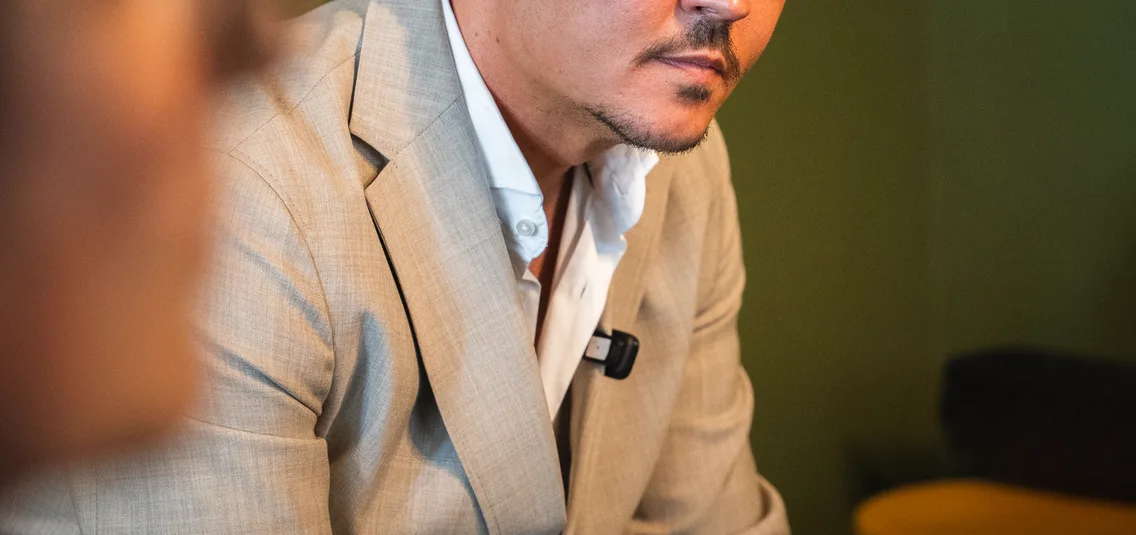
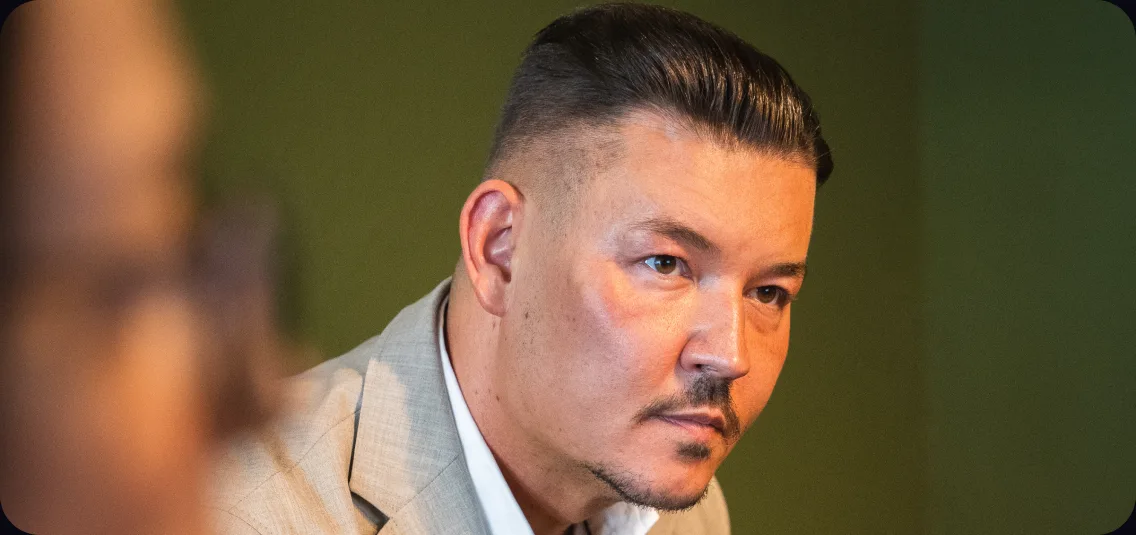
Landing pages: client change round + HubSpot lead sync
Feedback from the client on the eight live landing pages:

- "Der Beweis" now plays KIfrhPyYPNA ("Von 4 auf 18 Millionen €") instead of
  the Sales Mastery aftermovie. The Hoermann case study points at the same
  clip, which is that study's own story.
- The "6 Erfolgsgeschichten" video-carousel section is dropped from all eight
  pages. The four case studies carry the proof instead. The carousel is
  untouched on the main site (StoriesSection still uses VideoCarousel).
- The four case studies move up to sit directly after "Die Loesung", ahead of
  "So laeuft's ab" — proof follows the claim, before the how.
- The Hoermann video card is 16:9 rather than the design's 568x267 frame. A
  YouTube player letterboxes anything wider than 16:9, which put black bars
  down both sides and made the video look narrower than the chart card above
  it.
- Both Hoermann team photos are re-exported from their Figma nodes. The old
  files were cropped from the wrong region and cut the subject's head off.

The lead form now also writes to HubSpot, alongside the existing Web3Forms
notification. The CRM call goes through /api/lead so the private-app token
stays server-side, and it can never fail the submission — if HubSpot errors
the visitor still sees success, because the e-mail has already gone out.

The form collects no email address (the design ships name / phone / company
only), so contacts are matched on `phone` rather than the usual email dedup
[…]

diff --git a/src/lib/hubspot.ts b/src/lib/hubspot.ts
@@ -1,4 +1,4 @@
-import type { TicketSale } from "./smd2026";
+import { splitName, type TicketSale } from "./smd2026";
 
 /**
  * Pushes a ticket sale into HubSpot ("SMD2026"):
@@ -113,6 +113,96 @@ async function addToList(listId: string, contactId: string): Promise<void> {
   if (!res.ok) {
     throw new Error(`HubSpot list ${listId} add failed: ${await res.text()}`);
   }
+}
+
+/* ------------------------------------------------------------------ */
+/* Landing-page leads ("Kostenlose Potenzialanalyse")                   */
+/* ------------------------------------------------------------------ */
+
+export interface PotenzialanalyseLead {
+  name: string;
+  phone: string;
+  company: string;
+  /** Answer to "Bist du Inhaber / Entscheider?" */
+  decisionMaker: "Ja" | "Nein";
+  /** Which of the eight landing pages the form was submitted from. */
+  landingPage: string;
+}
+
+/**
+ * Upserts a landing-page lead as a HubSpot contact.
+ *
+ * The form deliberately collects no email address (the Figma design ships
+ * name / phone / company only), so the usual email dedup key isn't available —
+ * we match on `phone` instead. Two submissions from the same number update one
+ * contact; a changed number creates a second one.
+ *
+ * Everything written here is a property that already exists in the portal.
+ * The extra answers go into the standard `message` field because there is no
+ * dedicated property for them yet — see the note in the route handler.
+ */
+export async function submitLeadToHubSpot(
+  lead: PotenzialanalyseLead,
+): Promise<string> {
+  const { firstName, lastName } = splitName(lead.name);
+
+  const properties: Record<string, string> = {
+    firstname: firstName,
+    lastname: lastName,
+    phone: lead.phone,
+    company: lead.company,
+    lifecyclestage: "lead",
+    // "Noch nicht erreicht" — the lead is waiting for the callback.
+    hs_lead_status: "NEW",
+    message: [
+      "Kostenlose Potenzialanalyse angefragt",
+      `Landingpage: ${lead.landingPage}`,
+      `Inhaber / Entscheider: ${lead.decisionMaker}`,
+    ].join(" · "),
+  };
+
+  const existingId = await findContactIdByPhone(lead.phone);
+
+  if (existingId) {
+    const patchRes = await fetch(`${BASE}/crm/v3/objects/contacts/${existingId}`, {
+      method: "PATCH",
+      headers: authHeaders(),
+      body: JSON.stringify({ properties }),
+    });
+    if (!patchRes.ok) {
+      throw new Error(`HubSpot lead PATCH failed: ${await patchRes.text()}`);
+    }
+    return existingId;
+  }
+
+  const createRes = await fetch(`${BASE}/crm/v3/objects/contacts`, {
+    method: "POST",
+    headers: authHeaders(),
+    body: JSON.stringify({ properties }),
+  });
+  if (!createRes.ok) {
+    throw new Error(`HubSpot lead create failed: ${await createRes.text()}`);
+  }
+  const created = (await createRes.json()) as { id: string };
+  return created.id;
+}
+
+/** Finds a contact by phone number, or null. Used instead of email dedup. */
+async function findContactIdByPhone(phone: string): Promise<string | null> {
+  const res = await fetch(`${BASE}/crm/v3/objects/contacts/search`, {
+    method: "POST",
+    headers: authHeaders(),
+    body: JSON.stringify({
+      filterGroups: [
+        { filters: [{ propertyName: "phone", operator: "EQ", value: phone }] },
+      ],
+      properties: ["phone"],
+      limit: 1,
+    }),
+  });
+  if (!res.ok) return null; // search failing shouldn't block the lead
+  const found = (await res.json()) as { results?: { id: string }[] };
+  return found.results?.[0]?.id ?? null;
 }
 
 export async function trackSaleInHubSpot(sale: TicketSale): Promise<string> {

diff --git a/src/app/api/lead/route.ts b/src/app/api/lead/route.ts
@@ -1,0 +1,59 @@
+import { NextRequest, NextResponse } from "next/server";
+import { submitLeadToHubSpot, type PotenzialanalyseLead } from "@/lib/hubspot";
+
+// Talks to HubSpot with the private-app token → never prerender or cache.
+export const runtime = "nodejs";
+export const dynamic = "force-dynamic";
+
+/**
+ * Landing-page lead intake. The form also posts to Web3Forms for the e-mail
+ * notification; this route is the CRM half, kept server-side so the HubSpot
+ * token is never shipped to the browser.
+ *
+ * The lead is written to properties that already exist in the portal. Two
+ * answers have no dedicated property yet — the landing page it came from and
+ * "Inhaber / Entscheider" — so they go into the standard `message` field. If
+ * those should become filterable, create two custom properties in HubSpot and
+ * map them in `submitLeadToHubSpot`.
+ */
+export async function POST(req: NextRequest) {
+  if (!process.env.HUBSPOT_TOKEN) {
+    // The form still succeeds via Web3Forms — don't fail the submission.
+    console.error("[lead] HUBSPOT_TOKEN is not set; skipping CRM sync");
+    return NextResponse.json({ ok: false, reason: "not-configured" }, { status: 200 });
+  }
+
+  let body: Partial<PotenzialanalyseLead>;
+  try {
+    body = (await req.json()) as Partial<PotenzialanalyseLead>;
+  } catch {
+    return NextResponse.json({ error: "Invalid JSON" }, { status: 400 });
+  }
+
+  const name = body.name?.trim();
+  const phone = body.phone?.trim();
+  const company = body.company?.trim();
+
+  if (!name || !phone || !company) {
+    return NextResponse.json(
+      { error: "name, phone and company are required" },
+      { status: 400 },
+    );
+  }
+
+  try {
+    const contactId = await submitLeadToHubSpot({
+      name,
+      phone,
+      company,
+      decisionMaker: body.decisionMaker === "Nein" ? "Nein" : "Ja",
+      landingPage: body.landingPage?.trim() || "Unbekannt",
+    });
+    return NextResponse.json({ ok: true, contactId });
+  } catch (err) {
+    // Log for us, but report success-ish to the client: the e-mail
+    // notification already went out, so the lead is not lost.
+    console.error("[lead] HubSpot sync failed:", (err as Error).message);
+    return NextResponse.json({ ok: false, reason: "hubspot-error" }, { status: 200 });
+  }
+}

diff --git a/src/lib/landing-pages.ts b/src/lib/landing-pages.ts
@@ -158,7 +158,7 @@ export const PROOF = {
   headlineSerif: "Von 4 auf 18 Millionen Euro",
   headlineDisplay: "in 2 Jahren.",
   body: "Gemeinsam mit einem Wärmepumpen-Betrieb haben wir den Vertrieb von Grund auf aufgebaut – ohne mehr Werbebudget, allein durch Struktur und Vertrieb. Das Ergebnis: eine Vervierfachung des Jahresumsatzes.",
-  videoId: "oNulnavbtTM",
+  videoId: "KIfrhPyYPNA",
   caption: "Video: Hörmann-Podcast-Clip",
 };
 
@@ -261,19 +261,9 @@ export const ABOUT = {
   ],
 };
 
-export const STORIES = {
-  eyebrow: "Erfolgsgeschichten",
-  headlineSerif: "6 Erfolgsgeschichten, die zeigen:",
-  headlineDisplay: "Dein Vertrieb geht auch ohne dich.",
-  videoIds: [
-    "KIfrhPyYPNA",
-    "kMeN9SY_Ld4",
-    "PDgj_f7vJu8",
-    "89Mzx7TPlzQ",
-    "Ok2j8LeBYW0",
-    "3fLDRD6aezg",
-  ],
-};
+// The "6 Erfolgsgeschichten" video-carousel section was dropped from the
+// landing pages — the four case studies below carry the proof instead. The
+// carousel still runs on the main site (see StoriesSection).
 
 export interface CaseStudy {
   /**
@@ -409,8 +399,8 @@ export const CASE_STUDIES: CaseStudy[] = [
       { src: "/figma/lp/cases/hoermann-1.webp", alt: "Selmir Suljkanovic im Gespräch bei Hörmann Haustechnik" },
       { src: "/figma/lp/cases/hoermann-2.webp", alt: "Vertriebsgespräch bei Hörmann Haustechnik" },
     ],
-    // The clip is the Hörmann podcast episode — the same video the
-    // "Der Beweis" section opens with.
+    // "Von 4 auf 18 Millionen €" — the same clip "Der Beweis" opens with,
+    // which is this study's own story.
     video: {
       id: PROOF.videoId,
       poster: "/figma/lp/cases/hoermann-video.webp",

diff --git a/src/components/landing/LpLeadForm.tsx b/src/components/landing/LpLeadForm.tsx
@@ -55,6 +55,22 @@ export function LpLeadForm({ pageName }: { pageName: string }) {
       Landingpage: pageName,
     };
 
+    // The CRM write runs alongside the e-mail notification. It must never be
+    // what fails the submission, so its outcome is logged, not surfaced.
+    const hubspot = fetch("/api/lead", {
+      method: "POST",
+      headers: { "Content-Type": "application/json" },
+      body: JSON.stringify({
+        name: data.name,
+        phone: data.telefon,
+        company: data.firma,
+        decisionMaker: decider,
+        landingPage: pageName,
+      }),
+    })
+      .then((r) => r.json())
+      .catch(() => ({ ok: false }));
+
     try {
       const results = await Promise.allSettled(
         ACCESS_KEYS.map((access_key) =>
@@ -68,6 +84,10 @@ export function LpLeadForm({ pageName }: { pageName: string }) {
           }).then((r) => r.json()),
         ),
       );
+
+      void hubspot.then((res) => {
+        if (!res?.ok) console.warn("[lead] CRM sync did not complete", res);
+      });
       const anySuccess = results.some(
         (r) => r.status === "fulfilled" && r.value?.success,
       );

diff --git a/src/app/lp/[slug]/page.tsx b/src/app/lp/[slug]/page.tsx
@@ -9,7 +9,6 @@ import LpSolution from "@/components/landing/LpSolution";
 import LpSteps from "@/components/landing/LpSteps";
 import LpAudience from "@/components/landing/LpAudience";
 import LpAbout from "@/components/landing/LpAbout";
-import LpStories from "@/components/landing/LpStories";
 import LpCaseStudy from "@/components/landing/LpCaseStudy";
 import LpOffer from "@/components/landing/LpOffer";
 import LpFaq from "@/components/landing/LpFaq";
@@ -73,13 +72,14 @@ export default async function LandingPage({
         <LpProof />
         <LpProblem />
         <LpSolution />
-        <LpSteps />
-        <LpAudience />
-        <LpAbout />
-        <LpStories />
+        {/* The four case studies land straight after "Die Lösung" — the proof
+            follows the claim, before the how ("So läuft's ab"). */}
         {CASE_STUDIES.map((study) => (
           <LpCaseStudy key={study.eyebrow} study={study} />
         ))}
+        <LpSteps />
+        <LpAudience />
+        <LpAbout />
         <LpOffer pageName={page.name} />
         <LpFaq />
         <LpFinalCta />

diff --git a/src/components/ui/YouTubeLite.tsx b/src/components/ui/YouTubeLite.tsx
@@ -9,8 +9,6 @@ interface YouTubeLiteProps {
   className?: string;
   /** Custom still to show before playback; defaults to the YouTube thumbnail. */
   poster?: string;
-  /** Aspect utility for the frame — override when the design isn't 16:9. */
-  aspectClassName?: string;
   /** called when the user starts the video */
   onPlay?: () => void;
 }
@@ -24,7 +22,6 @@ export function YouTubeLite({
   title = "Video",
   className = "",
   poster,
-  aspectClassName = "aspect-video",
   onPlay,
 }: YouTubeLiteProps) {
   const [playing, setPlaying] = useState(false);
@@ -32,7 +29,7 @@ export function YouTubeLite({
   const thumb = poster ?? `https://i.ytimg.com/vi/${videoId}/hqdefault.jpg`;
 
   return (
-    <div className={`relative w-full overflow-hidden ${aspectClassName} ${className}`}>
+    <div className={`relative aspect-video w-full overflow-hidden ${className}`}>
       {playing ? (
         <iframe
           className="absolute inset-0 h-full w-full"

diff --git a/src/components/landing/LpCaseStudy.tsx b/src/components/landing/LpCaseStudy.tsx
@@ -95,13 +95,15 @@ export default function LpCaseStudy({ study }: { study: CaseStudy }) {
 
             <RevenueChart {...study.chart} />
 
+            {/* 16:9, not the design's 568x267 frame: a YouTube player letterboxes
+                anything wider than 16:9, which left black bars down both sides and
+                made the video look narrower than the chart card above it. */}
             {study.video && (
               <div className="overflow-hidden rounded-[20px] border border-white/[0.06]">
                 <YouTubeLite
                   videoId={study.video.id}
                   title={study.video.title}
                   poster={study.video.poster}
-                  aspectClassName="aspect-[568/267]"
                 />
               </div>
             )}
